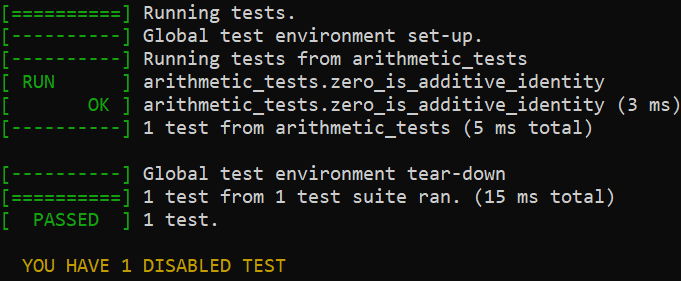
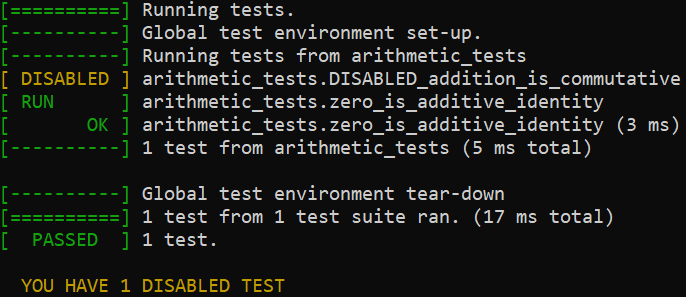
Add missing [ DISABLED ] printout

Changed region(s): [[0.0, 0.0, 1.0, 0.5409], [0.0, 0.5694, 0.9251, 0.8541], [0.0308, 0.911, 0.4317, 0.9964]]

diff --git a/src/r2k_test_suite.c b/src/r2k_test_suite.c
@@ -82,7 +82,11 @@ bool r2k_test_case_start(r2k_test_suite_t* suite, const char* test_name) {
     // check if should skip current test
     switch (should_skip_test(suite->test_runner->test_filter, suite->name, test_name)) {
         case SKIP_REASON_IS_DISABLED:
+            printf_yellow("[ DISABLED ] ");
+            printf("%s.%s\n", suite->name, suite->current_test.name);
             suite->test_runner->num_disabled_tests += 1;
+            suite->current_test.skipped = true;
+            return false;
         case SKIP_REASON_IS_FILTERED:
             suite->current_test.skipped = true;
             return false;
